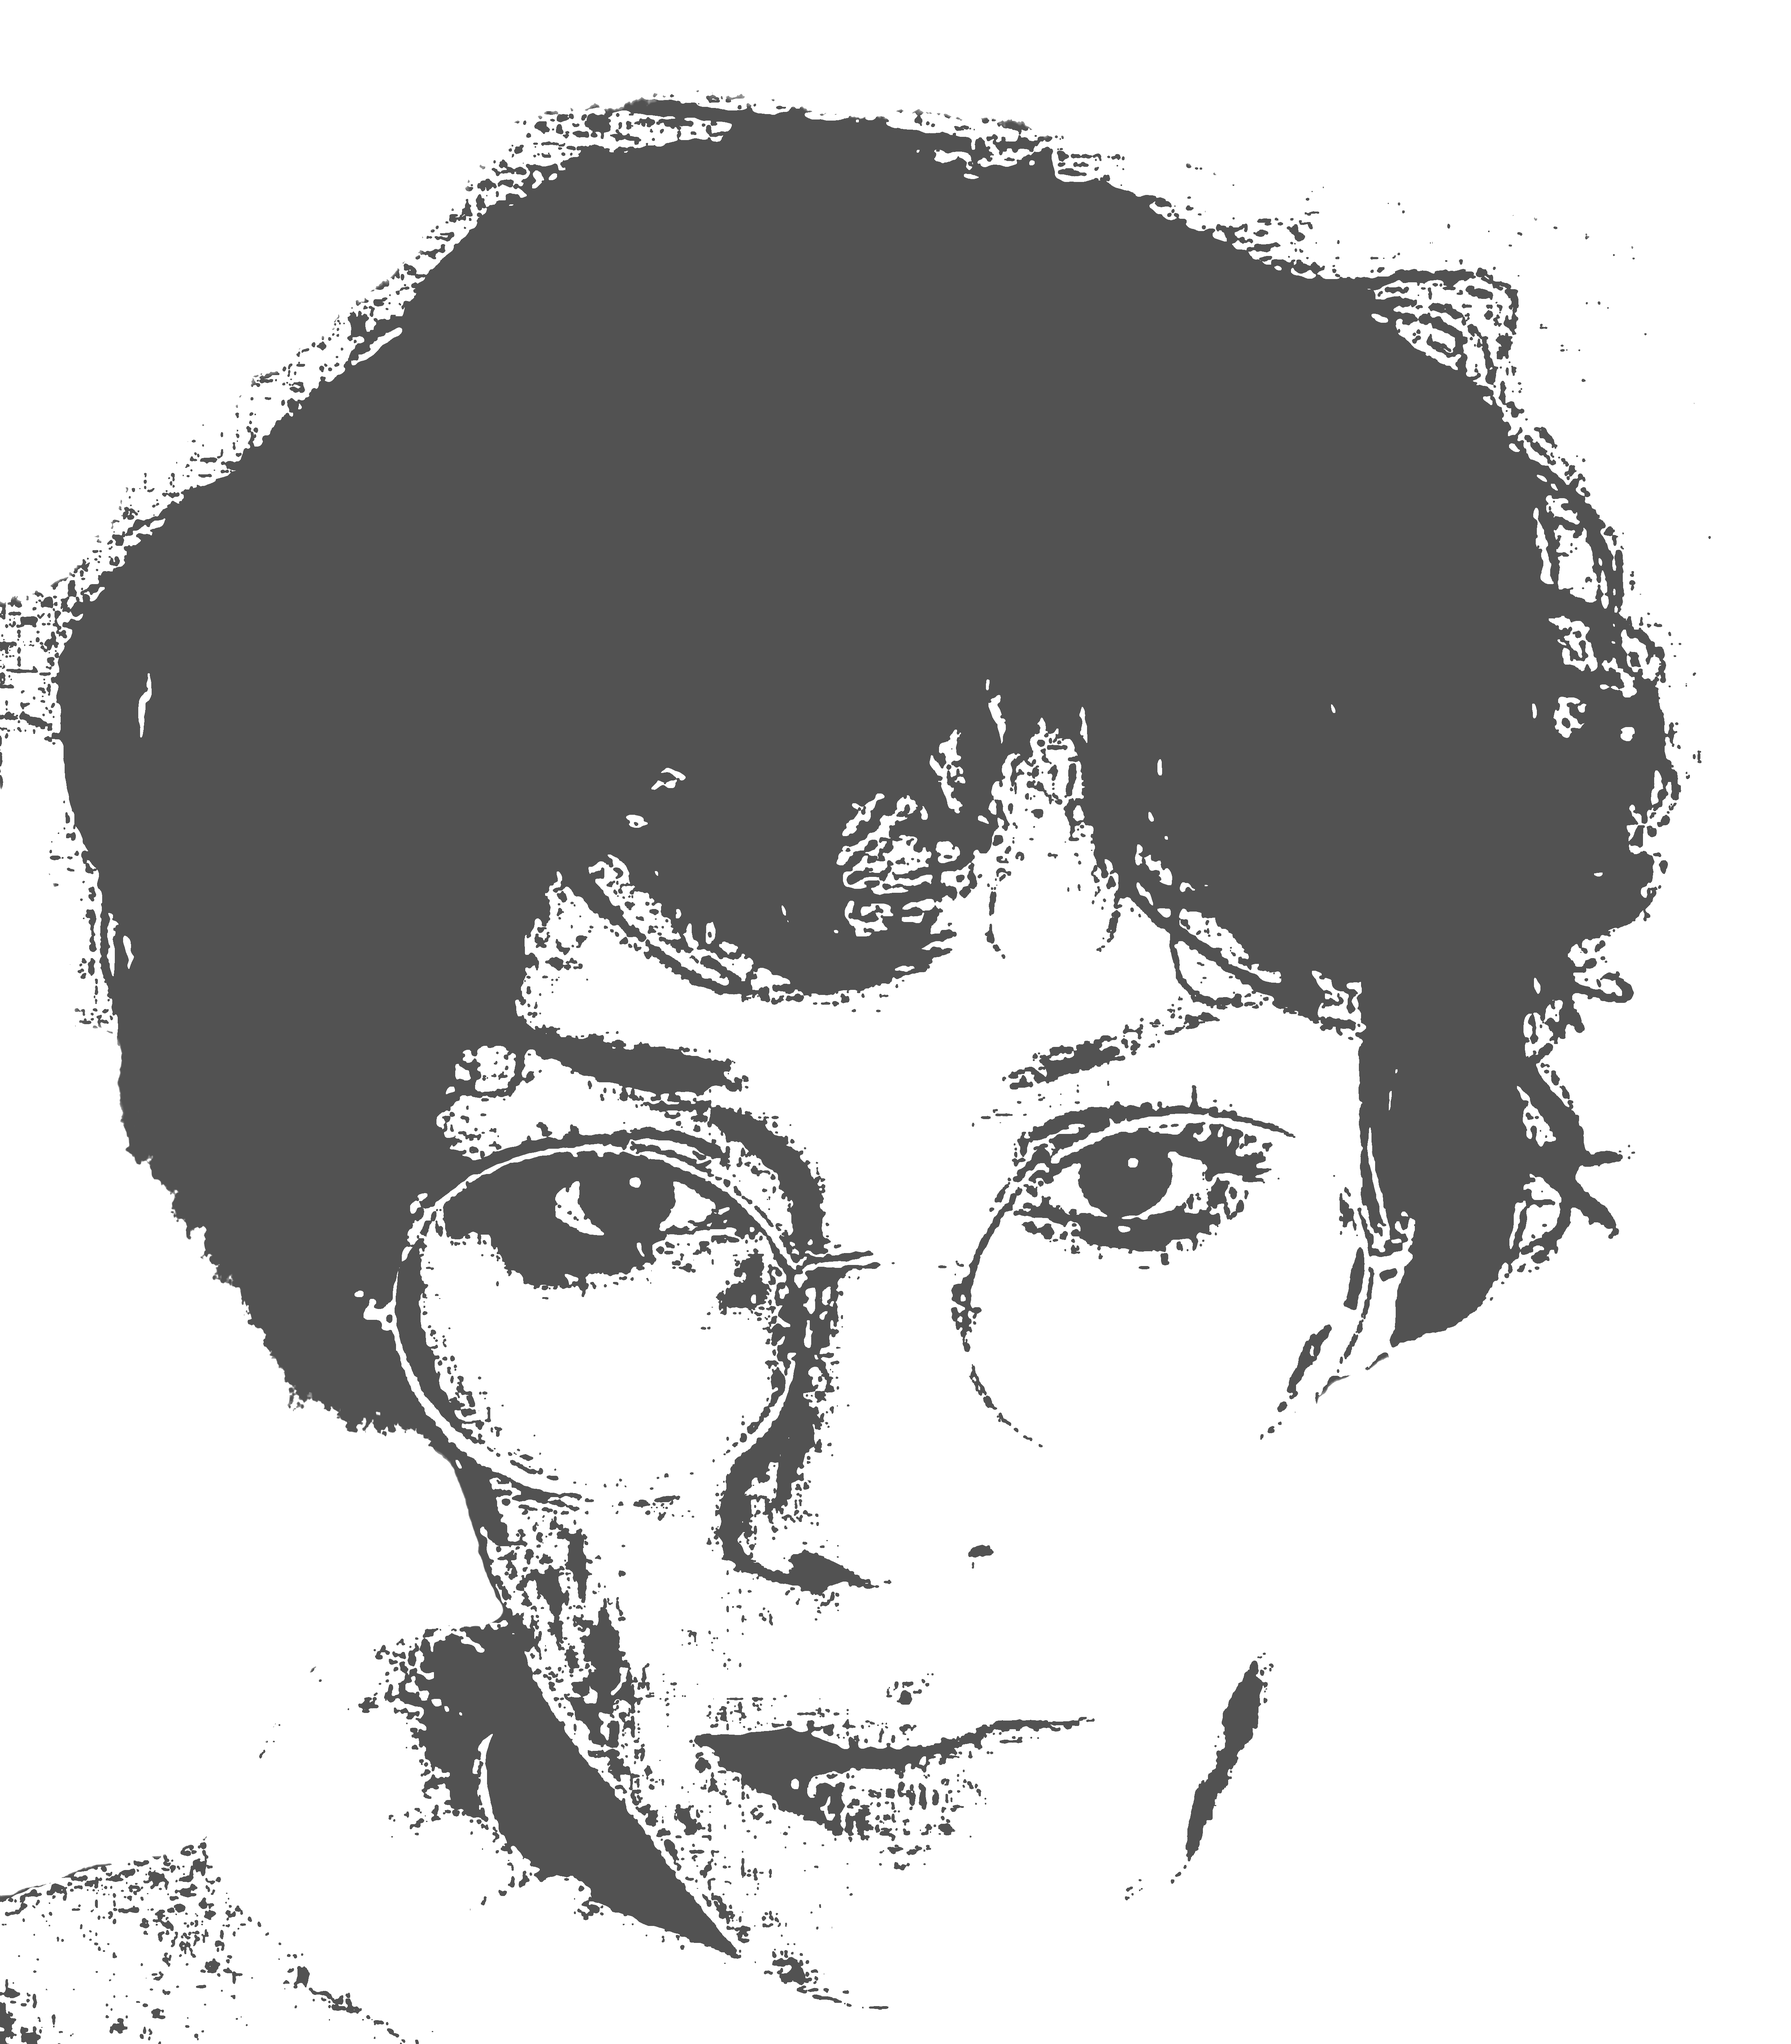
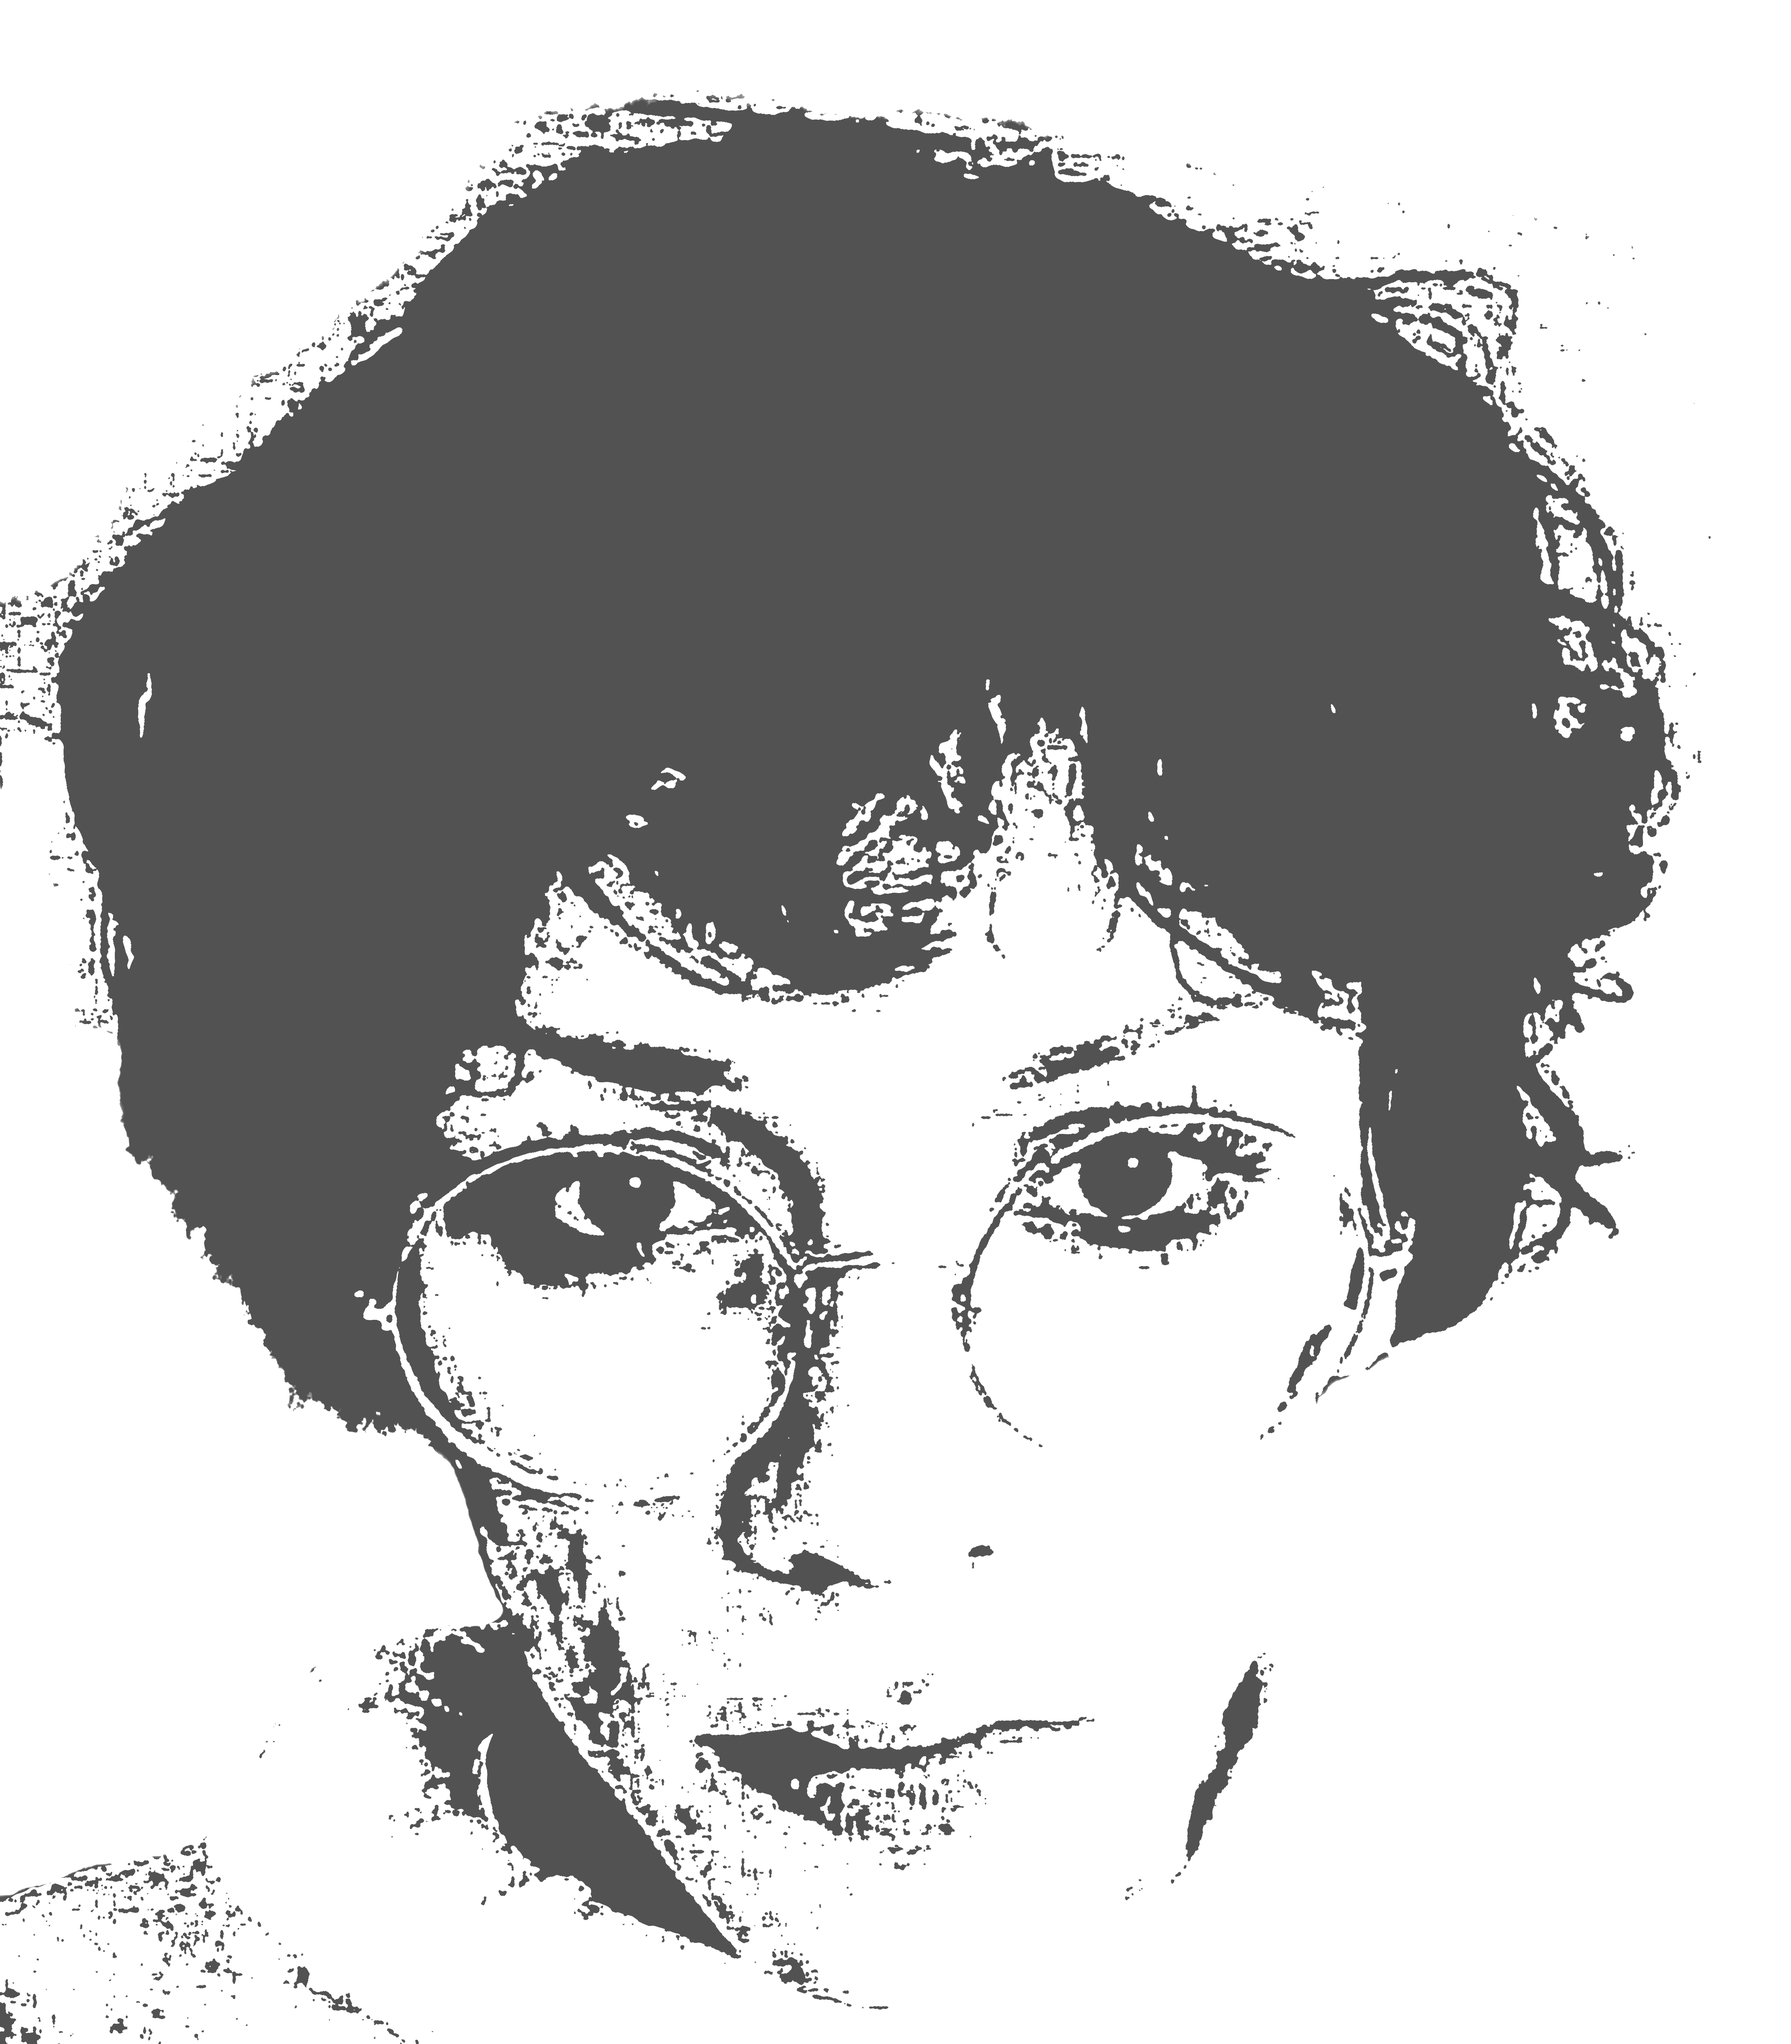
Did some resizing on the pngs in the assets

diff --git a/src/components/Landscape.scss b/src/components/Landscape.scss
@@ -36,7 +36,7 @@ h2.landscape-name {
   font-family: 'Cormorant', serif;
   position: absolute;
   /// is eigenlijk ook afhankelijk van grootte van canvas... 
-  font-size: 25rem;
+  font-size: 50rem;
   z-index: 13;
   color: rgba(0, 0, 0, 0.274);
   mix-blend-mode: multiply;
@@ -98,7 +98,7 @@ h2.landscape-name {
 
 .book--tiny {
   /// afhankelijk van canvas size
-  border-radius: 5px;
+  border-radius: 10px;
   z-index: 15;
   // display: none;
 }
@@ -115,7 +115,7 @@ h2.landscape-name {
   &:hover {
     // transform: scale(1.1);
     /// afhankelijk van canvas size
-    transform: translate(1rem, 1rem) scale(1.1);
+    transform: translate(2rem, 2rem) scale(1.1);
     z-index: 21;
     filter: sepia(3);
     /// dus liefst dynamisch op basis van de huidige kleur die aan de beurt is op website ofzo
@@ -136,7 +136,7 @@ img.book--large__background {
   position: absolute;
   z-index: 14;
   /// afhankelijk van canvas height
-  border-radius: 15px;
+  border-radius: 30px;
 
   // &:hover {
   // }
@@ -168,18 +168,18 @@ img.book--large__background {
     background-clip: text;
     background-color: #2c2c2c;
     /// al deze rems ook afhankelijk van canvas size
-    text-shadow: 0rem 0.5rem 0.5rem rgba(255, 255, 255, 0.192);
+    text-shadow: 0rem 1rem 1rem rgba(255, 255, 255, 0.192);
     // background-color: #3f3f3f;
     // text-shadow: 0rem 1rem 1rem rgba(255, 255, 255, 0.856);
 
     &.dark-background {
       background-color: rgb(255, 255, 255);
-      text-shadow: 0rem 0.5rem 0.3rem #3d3d3d63;
+      text-shadow: 0rem 1rem 0.6rem #3d3d3d63;
     }
 
     &.white-background {
       background-color: #3d3d3d;
-      text-shadow: 0rem 0.5rem 0.5rem rgba(224, 224, 224, 0.26);
+      text-shadow: 0rem 1rem 1rem rgba(224, 224, 224, 0.26);
     }
   }
 }

diff --git a/src/assets/projects/index.js b/src/assets/projects/index.js
@@ -6,29 +6,29 @@ export default [
     title: 'Architecture Highlights',
     github: false,
     images: [
-      'arch-1.png',
-      'arch-2.png',
-      'arch-3.png',
-      'arch-4.png',
-      'arch-5.png',
-      'arch-6.png',
-      'arch-7.png',
-      'arch-8.png',
-      'arch-9.png',
-      'arch-10.png',
-      'arch-11.png',
-      'arch-12.png',
-      'arch-12a.png',
-      'arch-13.png',
-      'arch-14.png',
-      'arch-15.png',
-      'arch-16.png',
-      'arch-17.png',
-      'arch-18.png',
-      'arch-19.png',
-      'arch-20.png',
-      'arch-21.png',
-      'arch-22.png',
+      'arch-1.jpg',
+      'arch-2.jpg',
+      'arch-3.jpg',
+      'arch-4.jpg',
+      'arch-5.jpg',
+      'arch-6.jpg',
+      'arch-7.jpg',
+      'arch-8.jpg',
+      'arch-9.jpg',
+      'arch-10.jpg',
+      'arch-11.jpg',
+      'arch-12.jpg',
+      'arch-12a.jpg',
+      'arch-13.jpg',
+      'arch-14.jpg',
+      'arch-15.jpg',
+      'arch-16.jpg',
+      'arch-17.jpg',
+      'arch-18.jpg',
+      'arch-19.jpg',
+      'arch-20.jpg',
+      'arch-21.jpg',
+      'arch-22.jpg',
     ]
   },
   {
@@ -54,7 +54,7 @@ export default [
     title: 'First Evarrr Website',
     github: true,
     images: [
-      'first-website.png'
+      'first-website.jpg'
     ]
   },
   {
